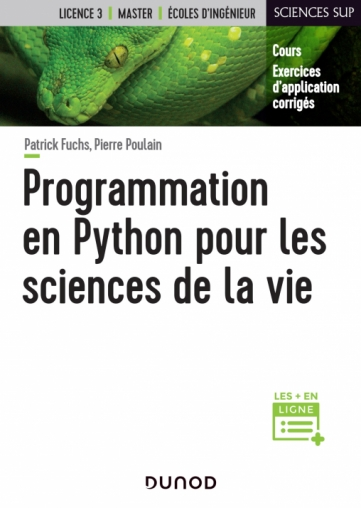
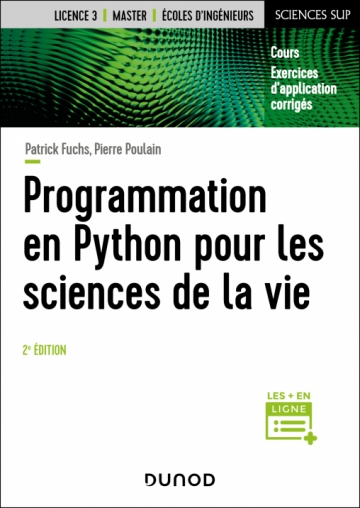
Update link and cover of the book

diff --git a/00_avant_propos.md b/00_avant_propos.md
@@ -14,19 +14,19 @@ et [PDF](https://python.sdv.u-paris.fr/cours-python.pdf).
 
 ## Remerciements {.unnumbered}
 
-Merci également à tous les contributeurs, occasionnels ou réguliers : Jennifer Becq, Benoist Laurent, Hubert Santuz, Virginie Martiny, Romain Laurent, Benjamin Boyer, Jonathan Barnoud, Amélie Bâcle, Thibault Tubiana, Romain Retureau, Catherine Lesourd, Philippe Label, Rémi Cuchillo, Cédric Gageat, Philibert Malbranche, Mikaël Naveau, Alexandra Moine-Franel, et plus généralement les promotions des masters de biologie informatique et  *in silico drug design*, ainsi que du diplôme universitaire en bioinformatique intégrative.
+Merci à tous les contributeurs, occasionnels ou réguliers, entre autre : Jennifer Becq, Benoist Laurent, Hubert Santuz, Virginie Martiny, Romain Laurent, Benjamin Boyer, Jonathan Barnoud, Amélie Bâcle, Thibault Tubiana, Romain Retureau, Catherine Lesourd, Philippe Label, Rémi Cuchillo, Cédric Gageat, Philibert Malbranche, Mikaël Naveau, Alexandra Moine-Franel, Dominique Tinel, et plus généralement les promotions des masters de biologie informatique et *in silico drug design*, ainsi que du diplôme universitaire en bioinformatique intégrative.
 
-Nous remercions tout particulièrement Sander Nabuurs pour la première version de ce cours remontant à 2003, Denis Mestivier pour les idées de certains exercices et Philip Guo pour son site [*Python Tutor*](http://pythontutor.com/). 
+Nous remercions tout particulièrement Sander Nabuurs pour la première version de ce cours remontant à 2003, Denis Mestivier pour les idées de certains exercices et Philip Guo pour son site[*Python Tutor*](http://pythontutor.com/).
 
-Enfin, merci à vous tous, les curieux de Python, qui avez été nombreux à nous envoyer des retours sur ce cours, à nous suggérer des améliorations et à nous signaler des coquilles.
+Enfin, merci à vous tous, les curieux de Python, qui avez été nombreux à nous envoyer des retours sur ce cours, à nous suggérer des améliorations et à nous signaler des coquilles. Cela rend le cours vivant et dynamique, continuez comme ça !
 
 De nombreuses personnes nous ont aussi demandé les corrections des exercices. Nous ne les mettons pas sur le site afin d'éviter la tentation de les regarder trop vite, mais vous pouvez nous écrire et nous vous les enverrons.
 
 
 ## Le livre {.unnumbered}
 
-Ce cours est également publié aux éditions Dunod sous le titre « [Programmation en Python pour les sciences de la vie](https://www.dunod.com/sciences-techniques/programmation-en-python-pour-sciences-vie) ». Vous pouvez vous le procurer dans toutes les bonnes librairies.
+Ce cours est également publié aux éditions Dunod sous le titre « [Programmation en Python pour les sciences de la vie](https://www.dunod.com/sciences-techniques/programmation-en-python-pour-sciences-vie-0) ». Le livre en est à sa 2e édition, vous pouvez vous le procurer dans toutes les bonnes librairies.
 
 ![Couverture livre Dunod.](img/couverture_livre_dunod.jpg){ width=30% }
 
-Afin de promouvoir le partage des connaissances et le logiciel libre, nos droits d'auteurs provenant de la vente de cet ouvrage seront reversés à deux associations : [Wikimédia France](https://www.wikimedia.fr/) qui s'occupe notamment de l'encyclopédie libre Wikipédia et [NumFOCUS](https://numfocus.org/) qui soutient le développement de logiciels libres scientifiques et notamment l'écosystème scientifique autour de Python.
+Afin de promouvoir le partage des connaissances et le logiciel libre, nos droits d'auteurs provenant de la vente de cet ouvrage sont reversés à deux associations : [Wikimédia France](https://www.wikimedia.fr/) qui s'occupe notamment de l'encyclopédie libre Wikipédia et [NumFOCUS](https://numfocus.org/) qui soutient le développement de logiciels libres scientifiques et notamment l'écosystème scientifique autour de Python.

diff --git a/00_avant_propos_Dunod.md b/00_avant_propos_Dunod.md
@@ -27,7 +27,7 @@ En 2024, au vu de l'importance de l'utilisation de Python en science des donnée
 
 ## Remerciements {.unnumbered}
 
-Les auteurs remercient tous les contributeurs, occasionnels ou réguliers, entre autre : Jennifer Becq, Benoist Laurent, Hubert Santuz, Virginie Martiny, Romain Laurent, Benjamin Boyer, Jonathan Barnoud, Amélie Bâcle, Thibault Tubiana, Romain Retureau, Catherine Lesourd, Philippe Label, Rémi Cuchillo, Cédric Gageat, Philibert Malbranche, Mikaël Naveau, Alexandra Moine-Franel, Dominique Tinel, et plus généralement les promotions des masters de biologie informatique et  *in silico drug design*, ainsi que du diplôme universitaire en bioinformatique intégrative.
+Les auteurs remercient tous les contributeurs, occasionnels ou réguliers, entre autre : Jennifer Becq, Benoist Laurent, Hubert Santuz, Virginie Martiny, Romain Laurent, Benjamin Boyer, Jonathan Barnoud, Amélie Bâcle, Thibault Tubiana, Romain Retureau, Catherine Lesourd, Philippe Label, Rémi Cuchillo, Cédric Gageat, Philibert Malbranche, Mikaël Naveau, Alexandra Moine-Franel, Dominique Tinel, et plus généralement les promotions des masters de biologie informatique et *in silico drug design*, ainsi que du diplôme universitaire en bioinformatique intégrative.
 
 Nous remercions tout particulièrement Sander Nabuurs pour la première version de ce cours remontant à 2003, Denis Mestivier pour les idées de certains exercices et Philip Guo pour son site[*Python Tutor*](http://pythontutor.com/).
 
